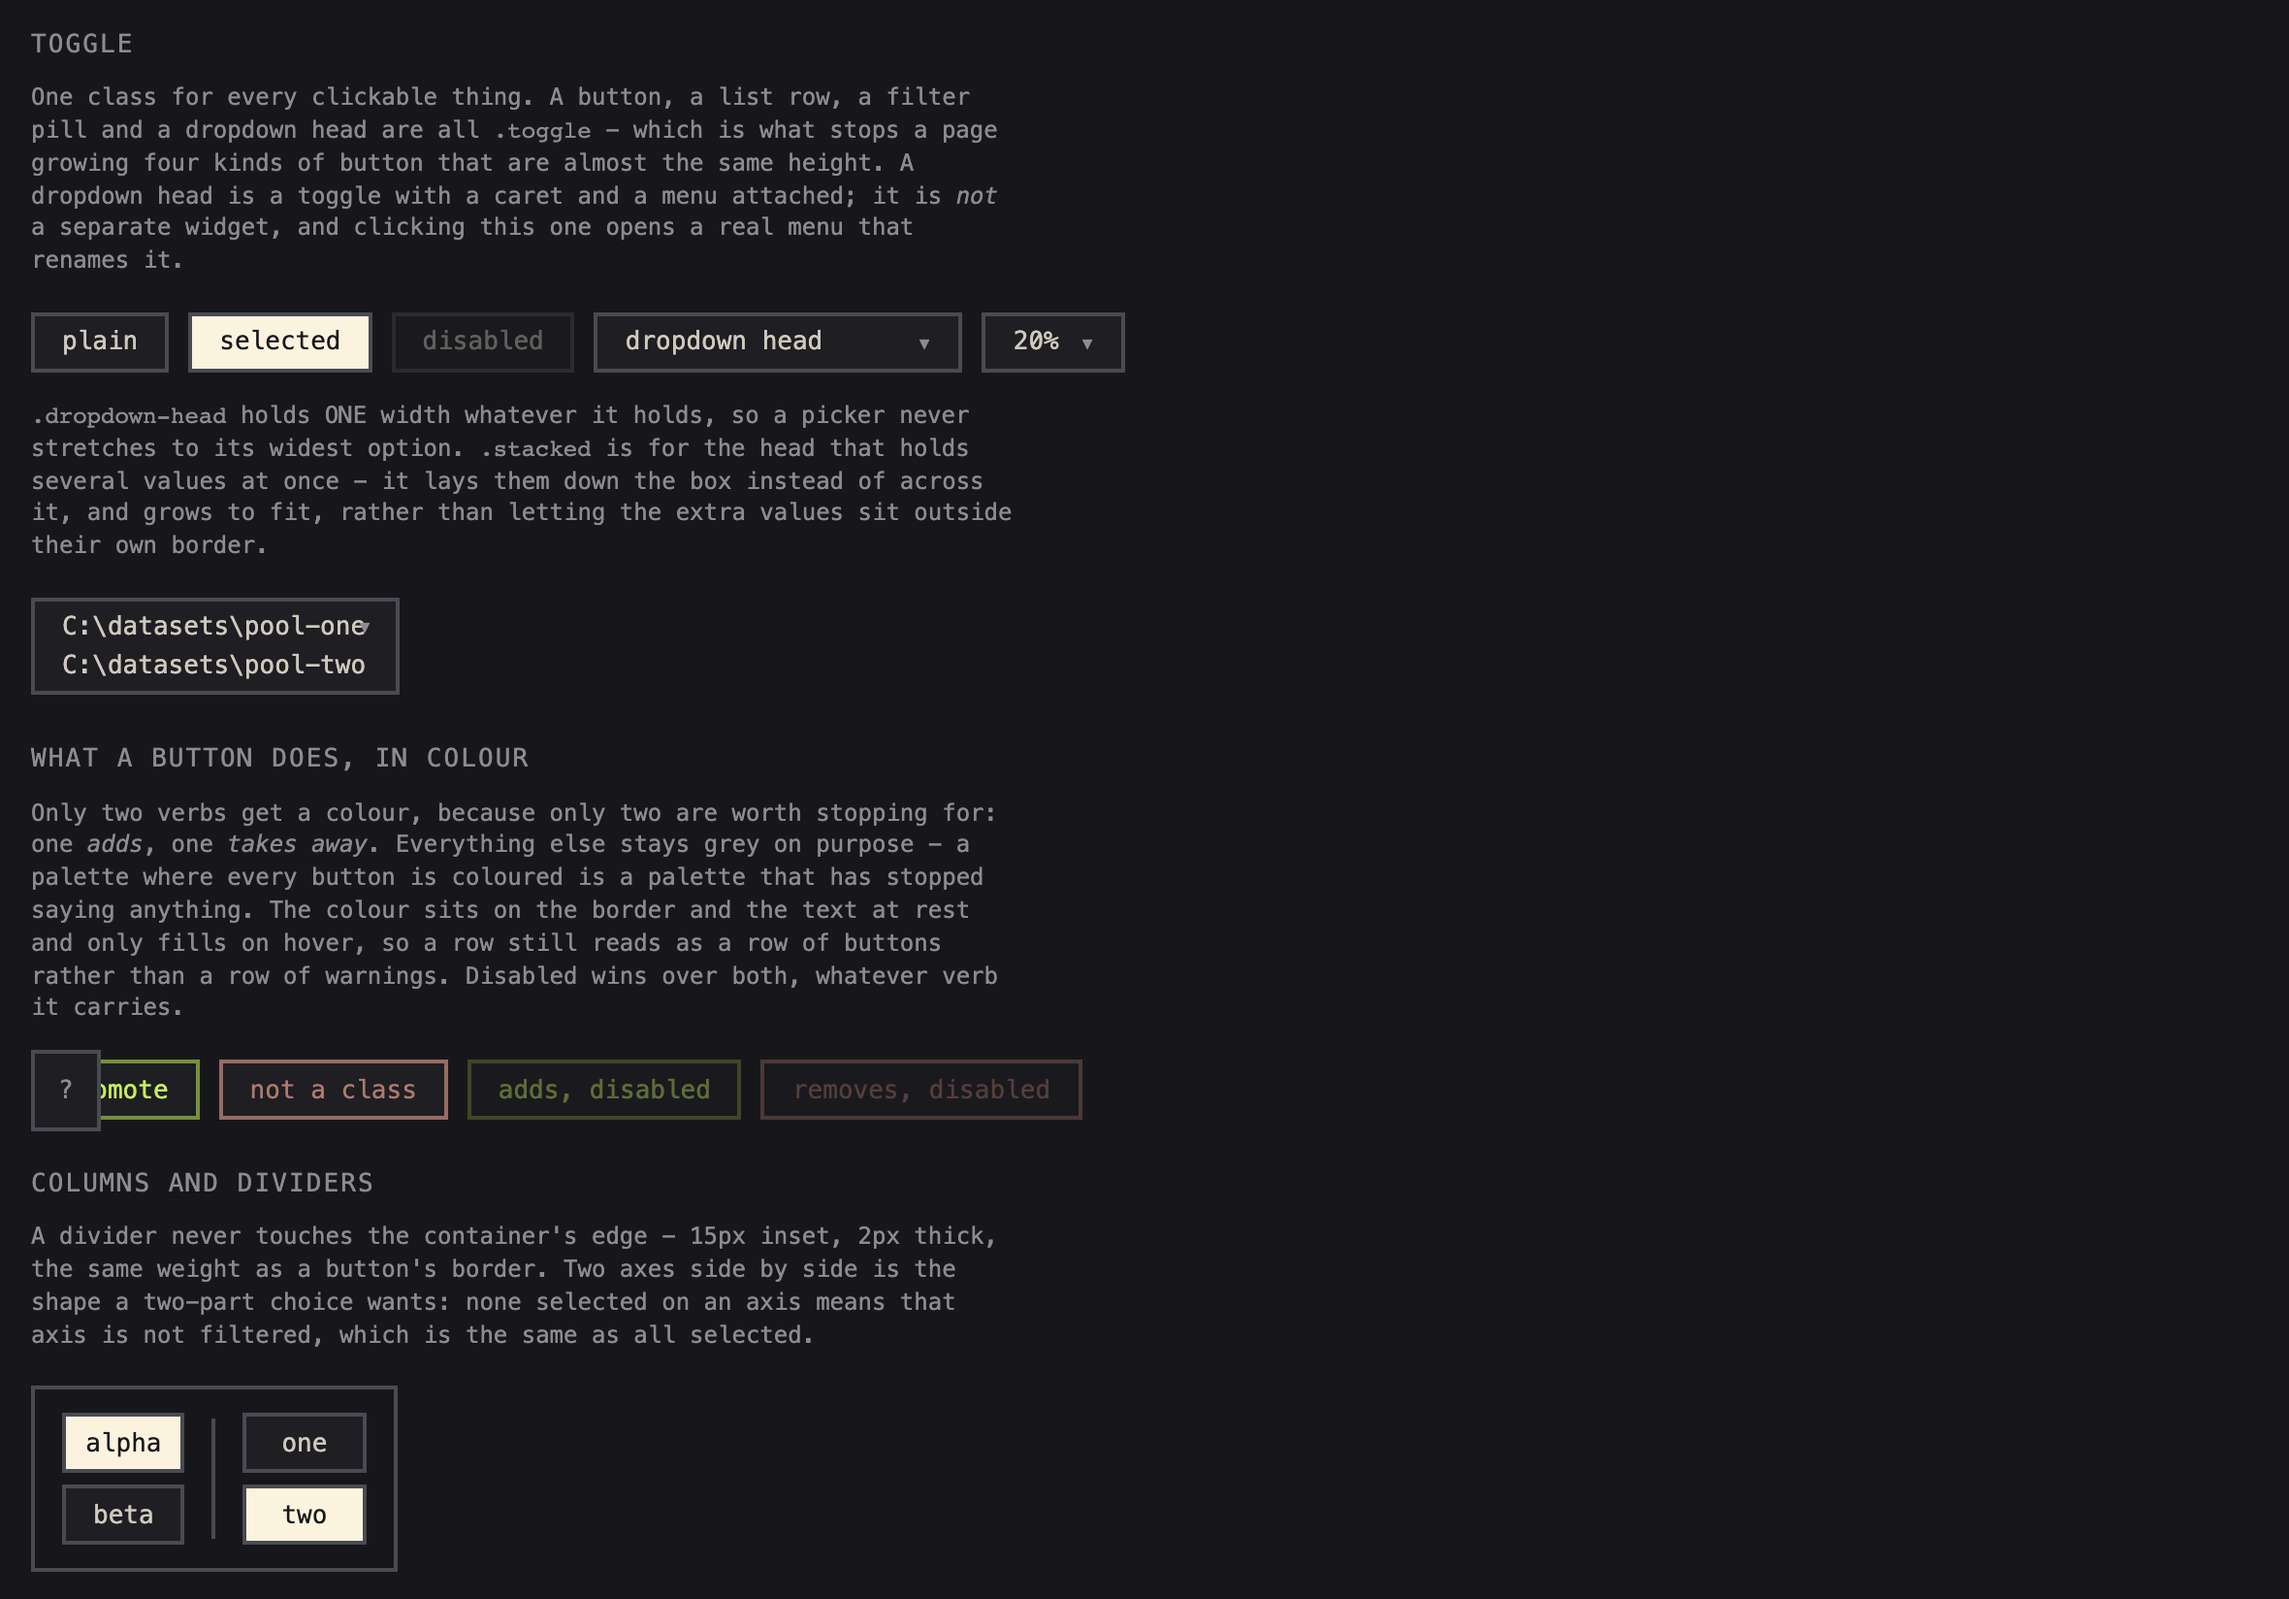
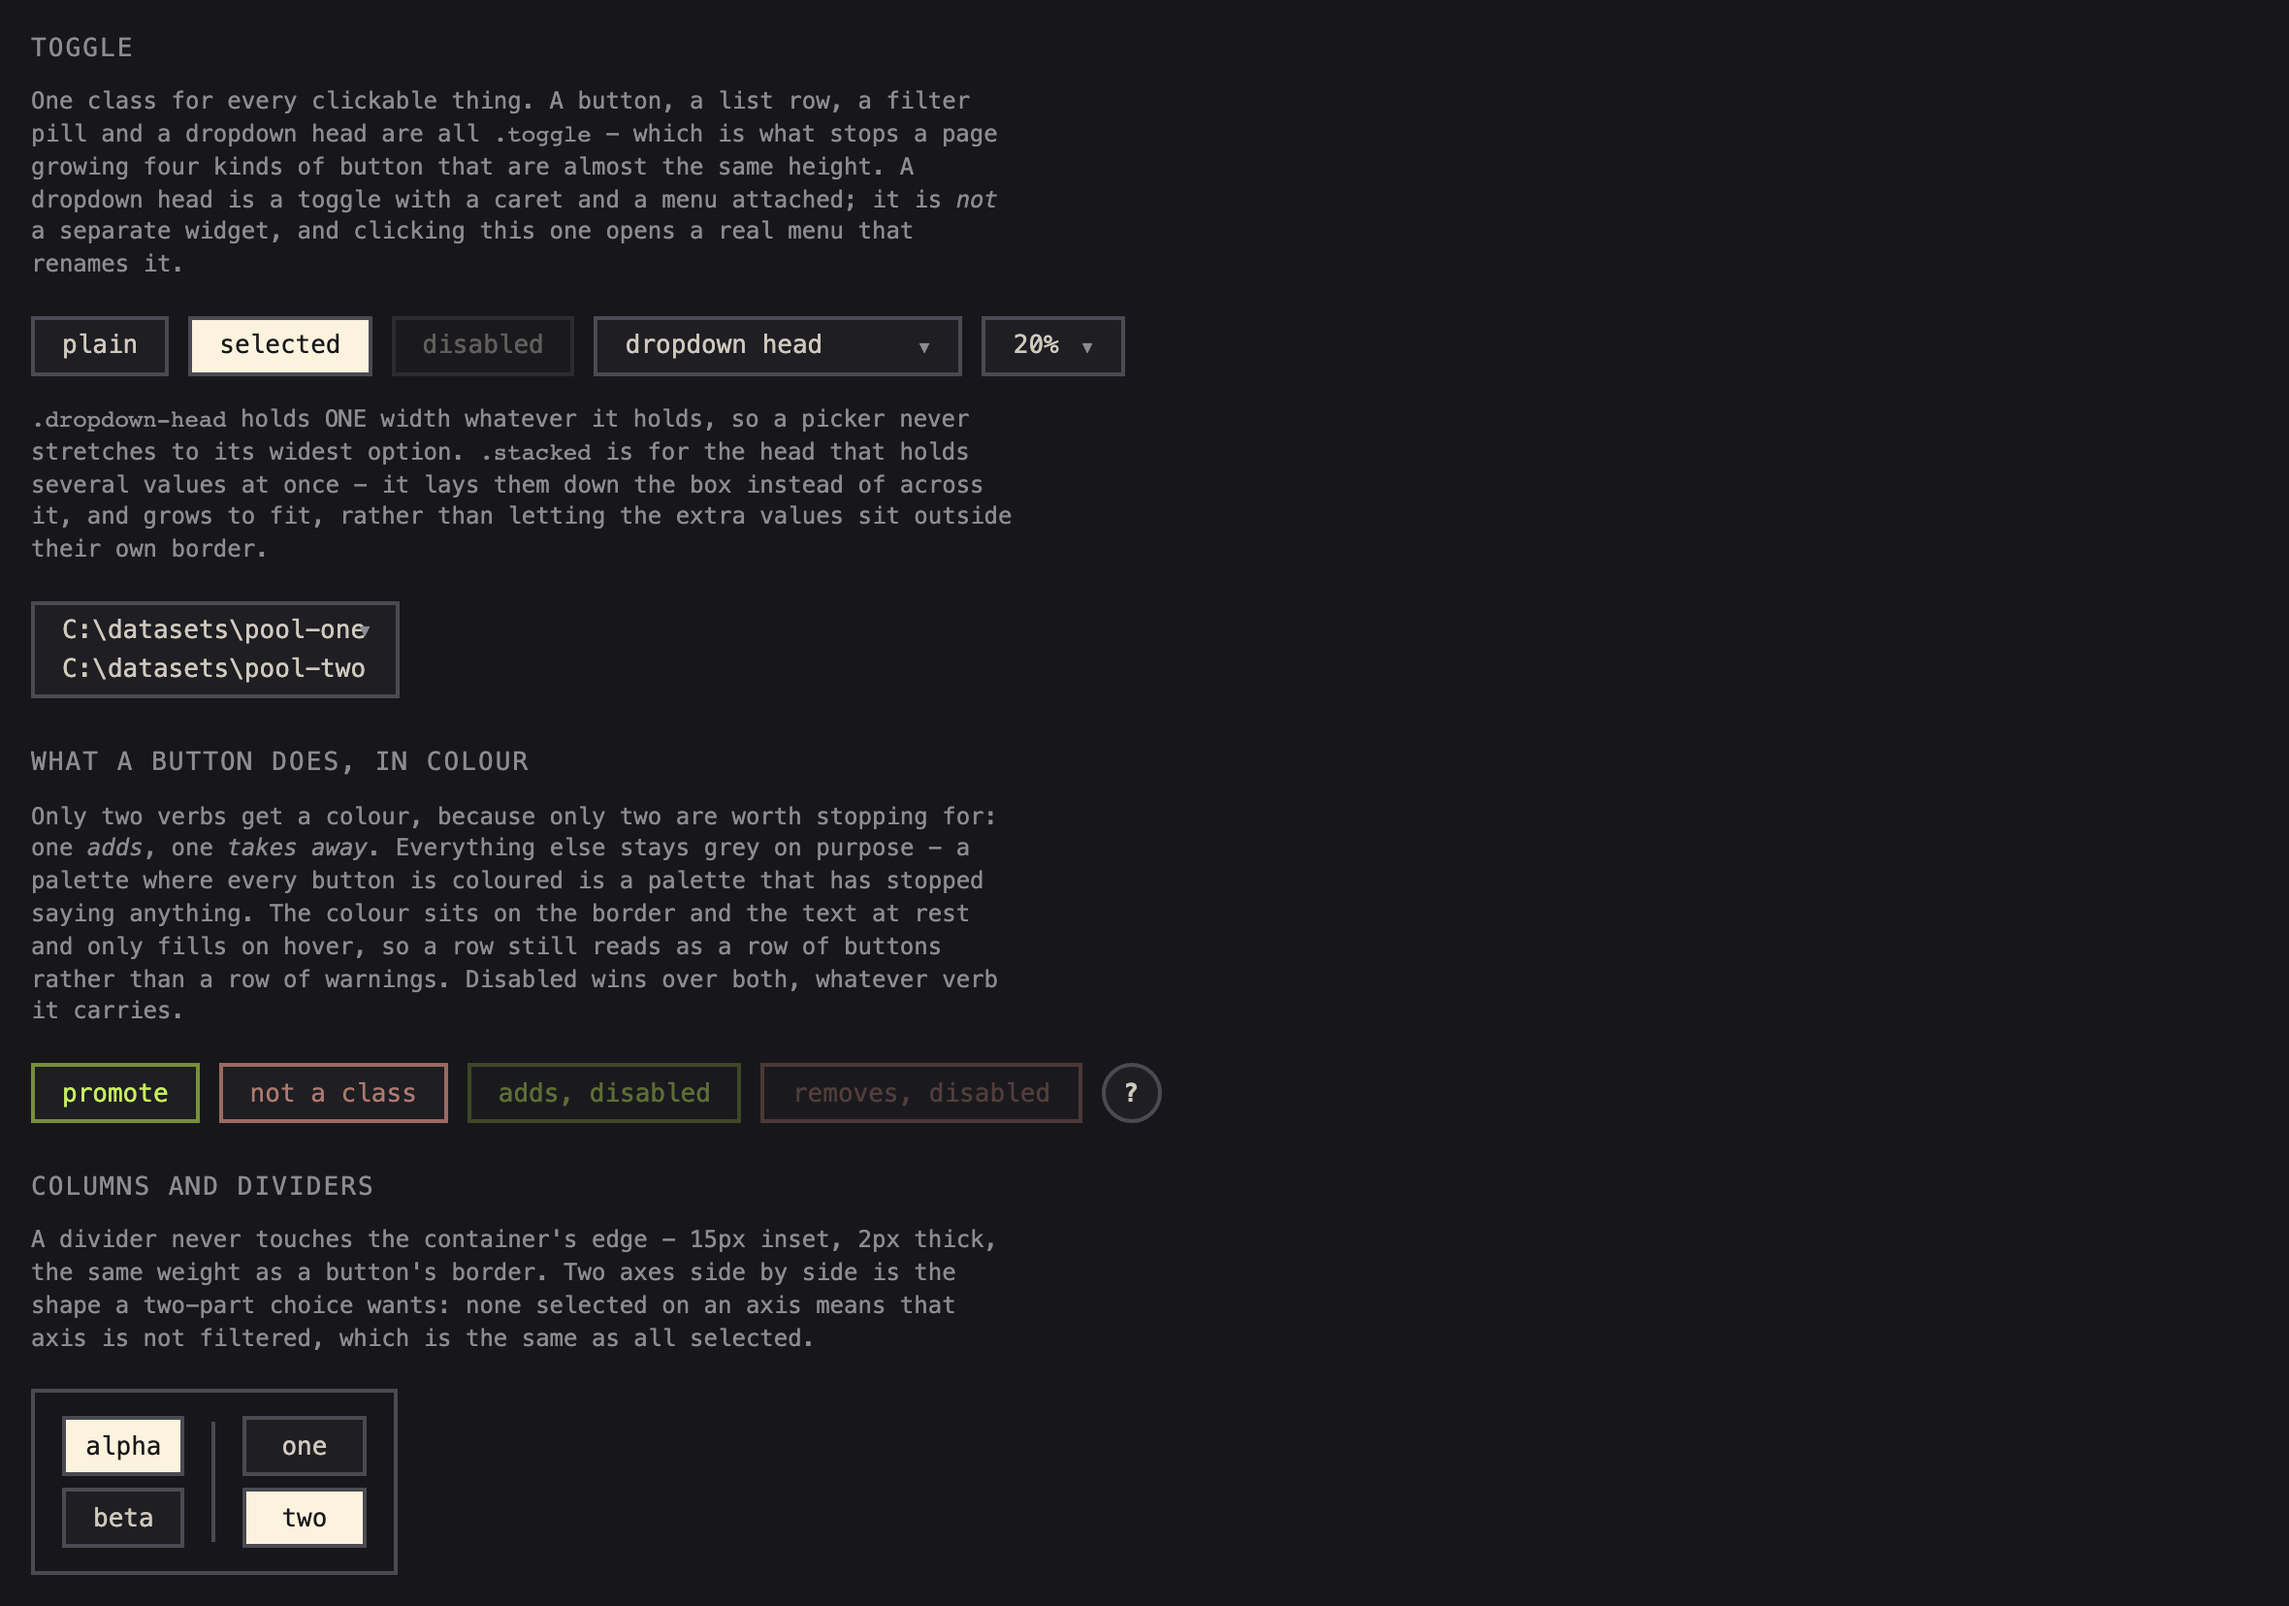
added help.js, a round ? whose tip opens beside it, and stopped the demo's ? floating over the page
the demo put .help-tip, the fixed tooltip class, on the ? itself, so it stayed where it first rendered
while everything scrolled under it - visible in the controls screenshot too. the trigger is now a
.toggle.help and helpTip places a separate tip on hover, pins it on click, and lets go on a click
elsewhere or a scroll. ported from consumer-app's review tool, which had the only implementation.

Claude-Session: https://claude.ai/code/session_01YR2mTEmeQkRLJeo7uiqHqm

diff --git a/ui_base/assets/help.js b/ui_base/assets/help.js
@@ -1,0 +1,57 @@
+// guidance on demand: hover a round ? to peek, click to pin, click anywhere else to let go.
+// A CONTROL ROW MAY NOT CHANGE HEIGHT, which is what instructions-as-prose did - three lines at a
+// narrow window, and the row grew with them. so a row carries a `.toggle.help` and the words live
+// in a `.help-tip` placed beside it on demand.
+//
+// THE TRIGGER IS NEVER THE TIP. `.help-tip` is position:fixed so it can sit over anything; put that
+// class on the ? itself and the ? stays where it first rendered while the page scrolls under it.
+//
+// ONE IMPLEMENTATION for every ? on a page - a second one drifts into a different dialect.
+
+let helpPinned = null;
+
+// `button` is the ? (give it class="toggle help"); `lines` are strings, one per row of the tip.
+// returns the tip element, appended to <body> and hidden until asked for
+function helpTip(button, lines) {
+  const tip = document.createElement('div');
+  tip.className = 'help-tip';
+  tip.hidden = true;
+  lines.forEach(line => {
+    const row = document.createElement('div');
+    row.textContent = line;
+    tip.appendChild(row);
+  });
+  document.body.appendChild(tip);
+
+  const place = () => {
+    const box = button.getBoundingClientRect();
+    tip.hidden = false;
+    // clamped to the window, because a ? at the right-hand edge would otherwise open off-screen
+    const width = tip.offsetWidth;
+    tip.style.top = `${box.bottom + 6}px`;
+    tip.style.left = `${Math.max(8, Math.min(box.left, window.innerWidth - width - 8))}px`;
+  };
+  const hide = () => { tip.hidden = true; tip.classList.remove('pinned'); button.classList.remove('on'); };
+
+  button.addEventListener('mouseenter', () => { if (helpPinned !== tip) place(); });
+  button.addEventListener('mouseleave', () => { if (helpPinned !== tip) tip.hidden = true; });
+  button.addEventListener('click', evt => {
+    evt.stopPropagation();
+    if (helpPinned === tip) { helpPinned = null; hide(); return; }
+    if (helpPinned) helpPinned._hide();
+    helpPinned = tip;
+    place();
+    tip.classList.add('pinned');
+    button.classList.add('on');
+  });
+  tip._hide = hide;
+  return tip;
+}
+
+// anywhere else dismisses a pinned tip - including a click inside the tip, which is text to read.
+// a pinned tip is fixed, so scrolling away from its ? lets it go too rather than leaving it floating
+function dismissPinnedHelp() {
+  if (helpPinned) { helpPinned._hide(); helpPinned = null; }
+}
+document.addEventListener('click', dismissPinnedHelp);
+window.addEventListener('scroll', dismissPinnedHelp, {passive: true, capture: true});

diff --git a/demo/index.html b/demo/index.html
@@ -11,6 +11,7 @@
 <script src="/ui/expand.js"></script>
 <script src="/ui/indicate.js"></script>
 <script src="/ui/drawer.js"></script>
+<script src="/ui/help.js"></script>
 <style>
   /* the demo's own layout only - everything that carries the LOOK is in base.css */
   body { display: flex; flex-direction: column; height: 100vh; }
@@ -95,7 +96,7 @@
     <div class="toggle removes">not a class</div>
     <div class="toggle adds disabled">adds, disabled</div>
     <div class="toggle removes disabled">removes, disabled</div>
-    <span class="help-tip" id="tip-demo" title="hover me, click to pin">?</span>
+    <div class="toggle help" id="tip-demo">?</div>
   </div>
 
   <h2>columns and dividers</h2>
@@ -473,8 +474,10 @@ document.getElementById('zoom-reset').onclick = () => view.reset(600, 340);
 
 // ---- help tip: hover shows, click pins. a tip that vanishes while you are reading it is worse
 // than no tip, which is why pinning exists at all
-const tip = document.getElementById('tip-demo');
-tip.onclick = () => tip.classList.toggle('pinned');
+helpTip(document.getElementById('tip-demo'), [
+  'hover shows this, moving away hides it',
+  'click pins it; click anywhere else, or scroll, to let go',
+]);
 
 // ---- the modal. ESCAPE PICKS THE HARMLESS ONE, always - a dialogue you can only leave by
 // choosing is a dialogue that gets answered wrongly under time pressure

diff --git a/ui_base/assets/base.css b/ui_base/assets/base.css
@@ -194,6 +194,10 @@ body {
 .toggle.on .field-label,
 .toggle.on .stat { color: var(--text-on-accent-dim); }
 
+/* the round ?, for guidance that would otherwise sit in a row as prose and wrap it. same border,
+   font and height as every other control - only the radius and a square footprint differ */
+.toggle.help { width: var(--row-height); padding: 0; border-radius: 50%; font-weight: 600; }
+/* THE TIP, NEVER THE TRIGGER: fixed so it can sit over anything, placed by help.js beside its ? */
 .help-tip {
   position: fixed; z-index: 60; max-width: 380px; line-height: 1.5;
   background: var(--panel-row); border: 2px solid var(--grey-border);

diff --git a/tests/test_assets.py b/tests/test_assets.py
@@ -28,6 +28,7 @@ EXPECTED = {
     "expand.js",
     "indicate.js",
     "drawer.js",
+    "help.js",
 }
 
 

diff --git a/README.md b/README.md
@@ -64,6 +64,7 @@ instructions above are right.
 | `expand.js` | `makeExpander` - a strip that grows into a centred panel and back |
 | `drawer.js` | `makeDrawer` - a sliver at a screen edge that opens into its half |
 | `indicate.js` | `indicateBadge`, `indicateFocus` - a count badge and a gliding focus marker |
+| `help.js` | `helpTip` - a round `?` that shows its tip on hover and pins it on click |
 | `select.js` | `makeSelection` - click, cmd+click, shift+drag, right-click over a grid |
 | `align.js` | `makeAligner` - drag a crop under a fixed guide, `wasd` nudging, live preview |
 
